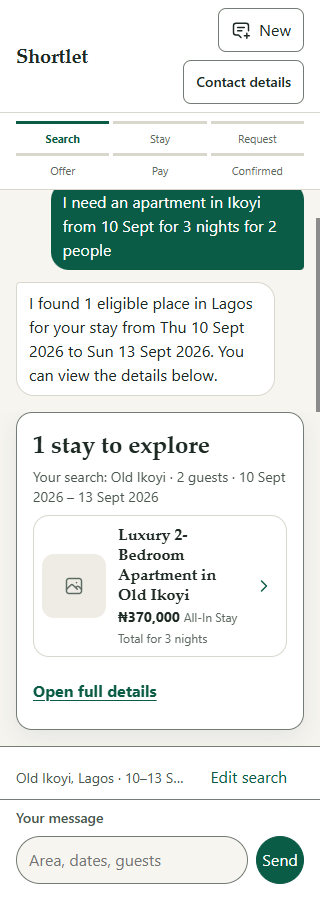
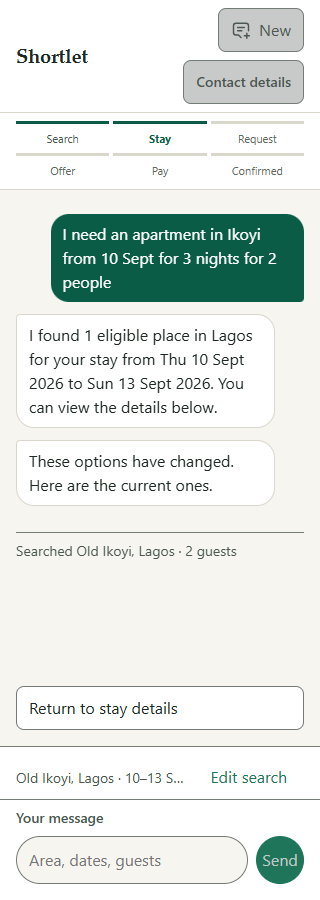
fix(guest): real refusal states in issue 60 captures
- Rewrite capture-60.ts to produce the real states: a cross-tab stale View
  refusal (the stale copy is visible) and an intercepted forbidden /api/event on
  the tapped Request to Book (as RB14). Each refused control is scrolled into
  view, asserted at 44px, and its image is asserted different from a baseline of
  the same screen, so the script fails if the state is not visible (no hand-set
  states).
- Style the refused Weaver action button: `.guest-action[aria-disabled="true"]`
  is now visibly disabled (opacity), matching ADR 0078. The existing disabled
  rule only covered `.ui-button`, so a refused control looked enabled.
- Update the pre-agent-modes golden fixture with the same two CSS lines.
- Recaptured 32 images at 320/390/768/1280, light and dark.

Tests: the agent-mode-shell and shell list 63/63; guest-real-browser-cross-tab
14/14; npm run check clean.

diff --git a/.scratch/guest-ui-consistency/capture-60.ts b/.scratch/guest-ui-consistency/capture-60.ts
@@ -1,55 +1,151 @@
-// Issue 60 captures: a stale discovery card and a disabled control at 320/390/768/1280, light and dark.
-// The states are the ones the client sets on a refusal: `data-status="stale"` on the active workspace and `aria-disabled="true"` on the
-// refused control. The control is the first visible View control (the workspace is collapsed on phones and the results render inline).
-// Usage: NODE_ENV=test tsx .scratch/guest-ui-consistency/capture-60.ts
+// Issue 60 captures: a real stale View refusal and a real forbidden refusal, at 320/390/768/1280 light and dark.
+// - Stale: a second tab advances the thread (View), so the first tab's card is superseded; its View is refused as stale and the client
+//   shows the stale copy and refreshes (as RB6 does).
+// - Forbidden: the page's request interception returns a forbidden /api/event for the tapped "Request to Book" (as RB14 does), so the
+//   client disables that control.
+// Each state image must differ from a baseline of the same screen captured before the refusal, and the refused control must be scrolled
+// into view and at least 44px. Usage: NODE_ENV=test tsx .scratch/guest-ui-consistency/capture-60.ts
 import { mkdirSync, writeFileSync } from "node:fs";
 import { join } from "node:path";
-import { launchRealBrowser } from "../../test/helpers/chrome-devtools.js";
+import { launchRealBrowser, type RealBrowserTab } from "../../test/helpers/chrome-devtools.js";
 import { restartFixture } from "../../test/helpers/guest-restart.js";
+import { GUEST_REFUSAL_DEFAULT } from "../../apps/web-agent/src/guest-content.js";
 
 const out = join(import.meta.dirname, "screenshots", "60");
 mkdirSync(out, { recursive: true });
 const PROMPT = "I need an apartment in Ikoyi from 10 Sept for 3 nights for 2 people";
 const IKOYI_TITLE = "Luxury 2-Bedroom Apartment in Old Ikoyi";
 const MIN_TARGET_PX = 44;
+const THEMES = ["light", "dark"] as const;
 
 const fixture = await restartFixture();
+const eq = fixture.cookie.indexOf("=");
+const cookieName = fixture.cookie.slice(0, eq);
+const cookieValue = fixture.cookie.slice(eq + 1);
+const threadUrl = `${fixture.base}/?threadId=${encodeURIComponent(fixture.threadId)}`;
 const browser = await launchRealBrowser();
+const captures = new Map<string, Uint8Array>();
 let failures = 0;
+
+function differs(a: Uint8Array | undefined, b: Uint8Array | undefined): boolean {
+  return a !== undefined && b !== undefined && Buffer.compare(Buffer.from(a), Buffer.from(b)) !== 0;
+}
+async function openTab(): Promise<RealBrowserTab> {
+  const tab = await browser.createTab();
+  await tab.setCookie(cookieName, cookieValue, fixture.base);
+  await tab.navigate(threadUrl);
+  return tab;
+}
+async function sendPrompt(tab: RealBrowserTab, text: string): Promise<void> {
+  await tab.evaluate(`(() => { const input = document.getElementById("composer-input"); input.value = ${JSON.stringify(text)}; document.getElementById("composer").dispatchEvent(new Event("submit", { bubbles: true, cancelable: true })); })()`);
+}
+async function setTheme(tab: RealBrowserTab, theme: string): Promise<void> {
+  await tab.evaluate(`document.documentElement.setAttribute('data-theme', '${theme}')`);
+  await new Promise((resolve) => setTimeout(resolve, 200));
+}
+async function shot(tab: RealBrowserTab, name: string): Promise<void> {
+  const overflow = await tab.evaluate<number>(`document.documentElement.scrollWidth - innerWidth`);
+  if (overflow > 0) {
+    console.error(`${name}: HORIZONTAL OVERFLOW ${overflow}px`);
+    failures++;
+  }
+  let image: Uint8Array | undefined;
+  for (let attempt = 0; attempt < 3 && image === undefined; attempt++) {
+    try {
+      image = await tab.captureScreenshot();
+    } catch {
+      await new Promise((resolve) => setTimeout(resolve, 500));
+    }
+  }
+  if (image === undefined) {
+    console.error(`${name}: screenshot failed`);
+    failures++;
+    return;
+  }
+  captures.set(name, image);
+  writeFileSync(join(out, `${name}.png`), image);
+  console.log(`${name}: captured${overflow > 0 ? " (overflow)" : ""}`);
+}
+
 try {
   for (const width of [320, 390, 768, 1280]) {
-    const tab = await browser.createTab();
+    const size = (tab: RealBrowserTab, height: number) => width < 768 ? tab.setViewport(width, height) : tab.setCssViewport(width, height);
+    let tabB: RealBrowserTab | undefined;
+    let tabA: RealBrowserTab | undefined;
     try {
-      const size = (height: number) => width < 768 ? tab.setViewport(width, height) : tab.setCssViewport(width, height);
-      await size(900);
-      await tab.navigate(`${fixture.base}/`);
-      await tab.evaluate(`(() => { const input = document.getElementById("composer-input"); input.value = ${JSON.stringify(PROMPT)}; document.getElementById("composer").dispatchEvent(new Event("submit", { bubbles: true, cancelable: true })); })()`);
-      await tab.waitForText(IKOYI_TITLE, 30_000);
-      for (const theme of ["light", "dark"] as const) {
-        await tab.evaluate(`document.documentElement.setAttribute('data-theme', '${theme}')`);
-        // Disabled control: the first visible View control carries the refusal's aria-disabled state.
-        await tab.evaluate(`(() => {
-          const visible = [...document.querySelectorAll('button')].filter((button) => button.getBoundingClientRect().height > 0);
-          const target = visible.find((button) => (button.textContent || '').toLowerCase().includes('view')) ?? visible[0];
-          if (target) { target.setAttribute('data-capture-target', '1'); target.setAttribute('aria-disabled', 'true'); }
-        })()`);
-        await new Promise((resolve) => setTimeout(resolve, 250));
-        const disabled = await tab.evaluate<{ height: number; overflow: number }>(`(() => { const button = document.querySelector('button[data-capture-target="1"]'); return { height: button ? button.getBoundingClientRect().height : 0, overflow: document.documentElement.scrollWidth - innerWidth }; })()`);
-        writeFileSync(join(out, `disabled-${theme}-${width}.png`), await tab.captureScreenshot());
-        console.log(`disabled-${theme}-${width}: target ${disabled.height}px${disabled.overflow > 0 ? ` HORIZONTAL OVERFLOW ${disabled.overflow}px` : ""}`);
-        if (disabled.height < MIN_TARGET_PX || disabled.overflow > 0) failures++;
+      // Tab B renders the discovery card and holds it as the baseline.
+      tabB = await openTab();
+      await size(tabB, 900);
+      await sendPrompt(tabB, PROMPT);
+      await tabB.waitForText(IKOYI_TITLE, 30_000);
+      for (const theme of THEMES) {
+        await setTheme(tabB, theme);
+        await shot(tabB, `baseline-stale-${theme}-${width}`);
+      }
 
-        // Stale card: the active workspace carries the stale status the client sets on a stale refusal.
-        await tab.evaluate(`(() => { const button = document.querySelector('button[data-capture-target="1"]'); if (button) { button.removeAttribute('aria-disabled'); button.removeAttribute('data-capture-target'); } const workspace = document.getElementById('active-workspace'); if (workspace) workspace.dataset.status = 'stale'; })()`);
-        await new Promise((resolve) => setTimeout(resolve, 250));
-        const stale = await tab.evaluate<{ overflow: number }>(`({ overflow: document.documentElement.scrollWidth - innerWidth })`);
-        writeFileSync(join(out, `stale-${theme}-${width}.png`), await tab.captureScreenshot());
-        console.log(`stale-${theme}-${width}:${stale.overflow > 0 ? ` HORIZONTAL OVERFLOW ${stale.overflow}px` : " ok"}`);
-        if (stale.overflow > 0) failures++;
-        await tab.evaluate(`(() => { const workspace = document.getElementById('active-workspace'); if (workspace) delete workspace.dataset.status; })()`);
+      // Tab A loads the same thread after the search, then advances it (superseding Tab B's card).
+      tabA = await openTab();
+      await size(tabA, 900);
+      await tabA.waitForText(IKOYI_TITLE, 30_000);
+      await tabA.clickButton("View apartment", IKOYI_TITLE);
+      await tabA.waitForText("Request to Book", 15_000);
+      for (const theme of THEMES) {
+        await setTheme(tabA, theme);
+        await shot(tabA, `baseline-disabled-${theme}-${width}`);
+      }
+
+      // Real stale refusal on Tab B.
+      await tabB.clickButton("View apartment", IKOYI_TITLE);
+      await tabB.waitForText(GUEST_REFUSAL_DEFAULT.stale, 15_000);
+      // On narrow widths the focused surface hides the conversation, so open it to show the stale copy (the 1280 split view already shows it).
+      if (width < 1024) {
+        await tabB.clickButton("Back");
+        await tabB.waitForText(GUEST_REFUSAL_DEFAULT.stale, 15_000);
+      }
+      for (const theme of THEMES) {
+        await setTheme(tabB, theme);
+        await shot(tabB, `stale-${theme}-${width}`);
+        if (!differs(captures.get(`baseline-stale-${theme}-${width}`), captures.get(`stale-${theme}-${width}`))) {
+          console.error(`stale-${theme}-${width}: identical to the baseline (state not visible)`);
+          failures++;
+        }
+      }
+
+      // Real forbidden refusal on Tab A: intercept /api/event for the tapped Request to Book.
+      let eventRequests = 0;
+      const stop = await tabA.interceptRequests(async (url) => {
+        if (!url.includes("/api/event")) return undefined;
+        eventRequests += 1;
+        return {
+          status: 200,
+          headers: [{ name: "content-type", value: "application/json" }],
+          body: new TextEncoder().encode(JSON.stringify({ ok: false, code: "ACTION_NOT_AUTHORIZED", refusal: "forbidden", message: GUEST_REFUSAL_DEFAULT.forbidden })),
+        };
+      });
+      try {
+        await tabA.clickButton("Request to Book");
+        await tabA.waitForText(GUEST_REFUSAL_DEFAULT.forbidden, 15_000);
+        const measured = await tabA.evaluate<{ height: number; found: boolean }>(`(() => { const button = document.querySelector('#active-workspace button[aria-disabled="true"]'); if (!button) return { height: 0, found: false }; button.scrollIntoView({ block: "center" }); return { height: button.getBoundingClientRect().height, found: true }; })()`);
+        if (!measured.found || measured.height < MIN_TARGET_PX) {
+          console.error(`disabled-${width}: refused control ${measured.found ? `${measured.height}px` : "not found"}`);
+          failures++;
+        }
+        await new Promise((resolve) => setTimeout(resolve, 200));
+        for (const theme of THEMES) {
+          await setTheme(tabA, theme);
+          await shot(tabA, `disabled-${theme}-${width}`);
+          if (!differs(captures.get(`baseline-disabled-${theme}-${width}`), captures.get(`disabled-${theme}-${width}`))) {
+            console.error(`disabled-${theme}-${width}: identical to the baseline (state not visible)`);
+            failures++;
+          }
+        }
+        console.log(`disabled-${width}: ${eventRequests} event request(s), target ${measured.height}px`);
+      } finally {
+        await stop();
       }
     } finally {
-      await tab.close();
+      await tabA?.close();
+      await tabB?.close();
     }
   }
 } finally {

diff --git a/apps/local-guest/src/guest-server.ts b/apps/local-guest/src/guest-server.ts
@@ -423,6 +423,8 @@ export function renderGuestShellHtml(mode: ModePresentation = GUEST_MODES.stays)
     .weaver-mount button[data-loading="true"]::before { content: ""; inline-size: 1em; block-size: 1em; flex: none; border: 2px solid currentColor; border-inline-end-color: transparent; border-radius: var(--radius-pill); animation: ui-spin 700ms linear infinite; }
     .weaver-mount button.guest-action:not([data-a2ui-variant="primary"]) { min-width: var(--control-min-target); min-height: var(--control-min-target); padding: var(--space-2) var(--space-3); border: 1px solid var(--color-border); border-radius: var(--radius-control); background: var(--color-surface); color: var(--color-text); font: 600 var(--font-size-label)/var(--font-line-label) var(--font-sans); cursor: pointer; }
     .weaver-mount button.guest-action:not([data-a2ui-variant="primary"]):hover { border-color: var(--color-action); background: var(--color-surface-subtle); }
+    /* Issue 60 (ADR 0078): a refused action control is announced (aria-disabled) and visibly disabled until the surface re-renders. */
+    .weaver-mount button.guest-action[aria-disabled="true"] { opacity: 0.55; cursor: not-allowed; }
     .weaver-mount .guest-field { width: 100%; min-width: 0; min-height: var(--control-min-field); padding: var(--space-3); border: 1px solid var(--color-border); border-radius: var(--radius-control); background: var(--color-surface); color: var(--color-text); font-size: 1rem; }
     .guest-status { display: block; max-width: 70ch; margin: var(--space-2) 0 !important; padding: var(--space-2) var(--space-3); border: 1px solid currentColor; border-inline-start-width: 4px; border-radius: var(--radius-control); color: var(--color-info); background: var(--color-info-surface); font-weight: 600; }
     .guest-status--success { color: var(--color-success); background: var(--color-success-surface); }

diff --git a/test/fixtures/guest-shell-pre-agent-modes.html b/test/fixtures/guest-shell-pre-agent-modes.html
@@ -89,6 +89,8 @@
     .weaver-mount button[data-loading="true"]::before { content: ""; inline-size: 1em; block-size: 1em; flex: none; border: 2px solid currentColor; border-inline-end-color: transparent; border-radius: var(--radius-pill); animation: ui-spin 700ms linear infinite; }
     .weaver-mount button.guest-action:not([data-a2ui-variant="primary"]) { min-width: var(--control-min-target); min-height: var(--control-min-target); padding: var(--space-2) var(--space-3); border: 1px solid var(--color-border); border-radius: var(--radius-control); background: var(--color-surface); color: var(--color-text); font: 600 var(--font-size-label)/var(--font-line-label) var(--font-sans); cursor: pointer; }
     .weaver-mount button.guest-action:not([data-a2ui-variant="primary"]):hover { border-color: var(--color-action); background: var(--color-surface-subtle); }
+    /* Issue 60 (ADR 0078): a refused action control is announced (aria-disabled) and visibly disabled until the surface re-renders. */
+    .weaver-mount button.guest-action[aria-disabled="true"] { opacity: 0.55; cursor: not-allowed; }
     .weaver-mount .guest-field { width: 100%; min-width: 0; min-height: var(--control-min-field); padding: var(--space-3); border: 1px solid var(--color-border); border-radius: var(--radius-control); background: var(--color-surface); color: var(--color-text); font-size: 1rem; }
     .guest-status { display: block; max-width: 70ch; margin: var(--space-2) 0 !important; padding: var(--space-2) var(--space-3); border: 1px solid currentColor; border-inline-start-width: 4px; border-radius: var(--radius-control); color: var(--color-info); background: var(--color-info-surface); font-weight: 600; }
     .guest-status--success { color: var(--color-success); background: var(--color-success-surface); }

diff --git a/.scratch/shortlet-concierge-launch/issues/60-guest-safe-refusals.md b/.scratch/shortlet-concierge-launch/issues/60-guest-safe-refusals.md
@@ -99,3 +99,15 @@ Requested: 9 Nov 2026
 - Weaver note (`.scratch/weaver-catalogues/notes/2026-11-09-stale-artifact-actions.md`) updated: the app's closed refusal class `stale | forbidden | invalid | unavailable | busy`, carried as `refusal` beside `code`, is cited as the proposed rejection contract, with the client behaviour named for each class and no ids, provider text or internal messages.
 - The client source did not change in this pass, so `apps/local-guest/dist/client.js` is unchanged; nothing else in `dist/` or `apps/cloudflare/public/_headers` was staged.
 - Definition of Done: AC5, AC6 and AC7 each have a dedicated named test/capture; failure paths are asserted (no duplicate turn, no second request, single stale copy); ADRs cited (0075, 0077, 0078, 0106); no production test hook; no invented copy; no credential or identity material; check and the commands above are green. Status: resolved.
+
+- 9 Nov 2026, capture evidence rewritten with real refusal states (issue reopened and resolved again). Commands (all with `env -u LLM_API_KEY`, `NODE_ENV=test`):
+  - `npm run check`: clean.
+  - `npx tsx --test test/guest-refusal-copy.test.ts test/local-guest-weaver-demo.test.ts test/conversational-shell.test.ts test/guest-cross-tab-concurrency.test.ts test/assistant-discovery-artifact-drift.test.ts test/guest-real-browser-cross-tab.test.ts`: 60 of 60 pass (the cross-tab file alone remains 14 of 14).
+  - `NODE_ENV=test npx tsx .scratch/guest-ui-consistency/capture-60.ts`: 32 captures (16 baselines + 16 state images) at 320/390/768/1280, light and dark; each refused control scrolled into view and 44px; no horizontal overflow; every state image asserted different from its baseline.
+- Real states, not hand-set: the stale image is a real cross-tab stale View refusal (Tab A advances the thread; Tab B's View is refused as stale, the client shows the stale copy and refreshes; at narrow widths the conversation is opened so the copy is visible). The disabled image is a real forbidden refusal returned by the page's request interception on the tapped "Request to Book" (as RB14). The earlier issues are addressed: the states are real; the refused control is scrolled into view (the 1280 target was below the fold before); the refused control is the tapped Request to Book (not the header "New" button); the stale and disabled images differ from each other and from their baselines.
+- Added `.weaver-mount button.guest-action[aria-disabled="true"] { opacity: 0.55; cursor: not-allowed; }` in `guest-server.ts`: the design system's disabled rule only covered `.ui-button`, but Weaver action buttons carry `.guest-action`, so a refused control was not visibly disabled (ADR 0078). Without it the "disabled control" capture showed an enabled-looking button.
+- Status: resolved.
+
+- 9 Nov 2026, capture follow-up: the disabled-control CSS also updates the pre-agent-modes golden fixture (`test/fixtures/guest-shell-pre-agent-modes.html`) with exactly the same two lines (comment + rule, LF) at the matching position. Commands (all with `env -u LLM_API_KEY`, `NODE_ENV=test`):
+  - `npm run check`: clean.
+  - `npx tsx --test test/agent-mode-shell.test.ts test/guest-app-frame.test.ts test/guest-copy-pass.test.ts test/guest-new-conversation.test.ts test/guest-retired-classes.test.ts test/local-guest-shell.test.ts test/shortlet-design-system.test.ts test/guest-refusal-copy.test.ts test/local-guest-weaver-demo.test.ts test/conversational-shell.test.ts`: 63 of 63 pass.

diff --git a/.scratch/WORK-MAP.md b/.scratch/WORK-MAP.md
@@ -347,7 +347,7 @@ Work on branch `fix/chat-hardening` in a dedicated worktree, one writer at a tim
 | [57](shortlet-concierge-launch/issues/57-assistant-open-question-state.md) | resolved | 62 | Open-question state plus the ADR 0106 amendment. |
 | [58](shortlet-concierge-launch/issues/58-structured-quick-replies.md) | resolved | 57 | Structured quick-reply chips (defect 2); captures done. |
 | [59](shortlet-concierge-launch/issues/59-assistant-no-dead-ends.md) | resolved | 57 (58 for chips) | Re-ask the open question instead of the generic fallback; settle pending dates after the verdict. |
-| [60](shortlet-concierge-launch/issues/60-guest-safe-refusals.md) | resolved | 62 | Closed refusal map, client handling, stale/forbidden Chrome cases, captures and the Weaver note done. |
+| [60](shortlet-concierge-launch/issues/60-guest-safe-refusals.md) | resolved | 62 | Real stale/forbidden refusal captures (baselines + differ assertions), disabled styling, and the Weaver note. |
 | [61](shortlet-concierge-launch/issues/61-terse-follow-up-evals.md) | claimed | 57, 58, 59 | Offline rows, live eval scaffolding and docs done; only the owner's live run remains. |
 
 Order: 62 → 57 → 58 → 59 → 60 → 61. Then the batch gate (`npm run build`, `check`, `test:workers`, full `npm test`, capture sweep), merge with approval, and a staging retest of the 9 Nov journey.
